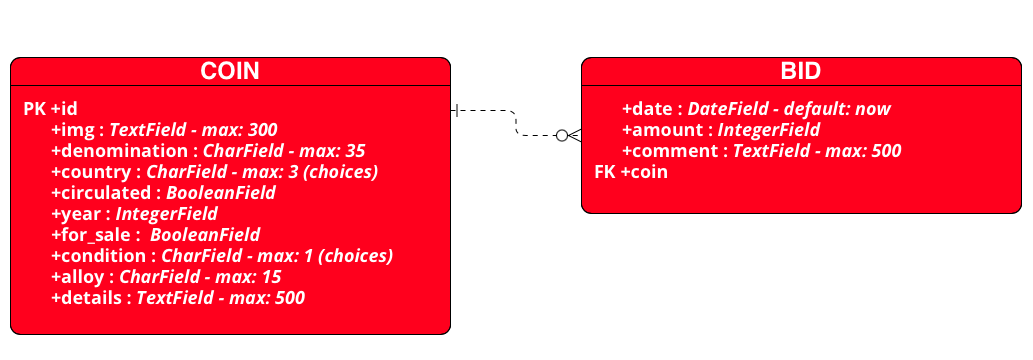
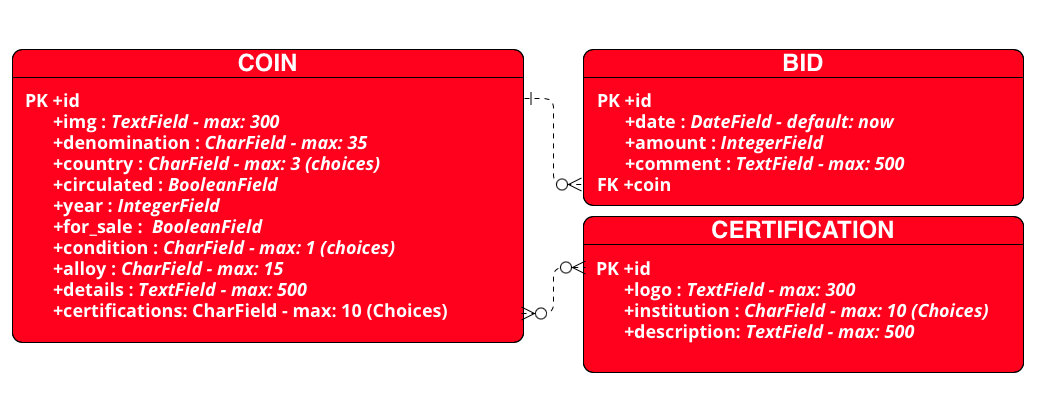
Complete part 5

diff --git a/main_app/templates/extends/details.html b/main_app/templates/extends/details.html
@@ -5,7 +5,12 @@
             <div class="col s6">
                 <div class="card medium">
                     <div class="card-content">
-                            <b>Country:</b> {{ coin.country }}
+                            <b>Country:</b> 
+                            {% if coin.country == "DOM" %}
+                            Dominican Republic
+                            {% else %}
+                            United States
+                            {% endif %}
                             <br/>
                             <br/>
                             <b>Denomination:</b> {{ coin.denomination }}
@@ -21,10 +26,25 @@
                             {% endif %}
                             <br/>
                             <br/>
-                            <b>Condition:</b> {{ coin.condition }} <a href="https://www.mintstategold.com/investor-education/cat/about-coin-grading/post/point-grading-scale/">[ View Chart ]</a>
+                            <b>Condition:</b> 
+                            {% if coin.condition == "M" %}
+                            Mint
+                            {% else %}
+                            Good
+                            {% endif %}
+                            <a href="https://www.mintstategold.com/investor-education/cat/about-coin-grading/post/point-grading-scale/">[ View Chart ]</a>
                             <br/>
                             <br/>
                             <b>Coinage Material (alloy):</b> {{ coin.alloy }}
+                            <br/>
+                            <br/>
+                            <b>Certifications:</b>
+                            <br/>
+                            {% for certification in certifications %} 
+                            <a href="{% url 'certifications' %}">
+                            <img src="../{{ certification.logo }}" style="width:40px;height:30px;">
+                            </a>
+                            {% endfor %}
                     </div>
                     <div class="card-action">
                         <a href="{% url 'coin_update' coin.id %}">Edit</a>
@@ -36,7 +56,7 @@
                 <div class="card medium">
                 <div class="row">
                     <div class="card-content">
-                        <img src="../{{ coin.img }}" class="details-coin-img"/>
+                        <img src="../{{ coin.img }}" class="details-coin-img" style="width: 61vmin; height:37vmin"/>
                     </div>
                 </div>
                 </div>

diff --git a/main_app/templates/extends/certifications.html b/main_app/templates/extends/certifications.html
@@ -1,0 +1,35 @@
+{%extends "../base.html"%}
+
+{% block content %}
+<div class="container">
+    <div class ="row">
+        <div class="col">
+            <h1 class="header">Certifications</h1>
+        </div>
+        <div class="col right">
+            <a href="{% url 'certifications_create' %}">
+                <h4 class="header"><i class="material-icons">post_add</i> Add New</h4>
+            </a>
+        </div>
+    </div>
+    {% for certification in certifications %}
+    <div class="col s12 m7">
+        <div class="card horizontal">
+            <div class="card-image valign-wrapper">
+                <img src="{{ certification.logo }}">
+            </div>
+            <div class="card-stacked">
+                <h2 class="header">{{ certification.institution }}</h2>
+                <div class="card-content">
+                    <p>{{ certification.description }}</p>
+                </div>
+                <div class="card-action">
+                    <a href="{% url 'certification_update' certification.id %}">Edit</a>
+                    <a href="{% url 'certification_delete' certification.id %}">Delete</a>
+                </div>
+            </div>
+        </div>
+    </div>
+    {% endfor %}
+</div>
+{% endblock %}

diff --git a/main_app/templates/main_app/certification_form.html b/main_app/templates/main_app/certification_form.html
@@ -3,7 +3,7 @@
 {% block content %}
 
 <div class="container">
-    <h5>Add Coin</h5>
+    <h5>Add Certification</h5>
     <!-- Leaving the action empty makes the form post to the same url used to display it -->
     <form action="" method="POST">
         <!-- Django requires the following for security purposes -->
@@ -26,14 +26,8 @@
 </div>
 
 <script>
-    const countryEl = document.getElementById('id_country');
-    M.FormSelect.init(countryEl);
-
-    const conditionEl = document.getElementById('id_condition');
-    M.FormSelect.init(conditionEl);
-
-    const certificationEl = document.getElementById('id_certifications');
-    M.FormSelect.init(certificationEl);
+    const institutionEl = document.getElementById('id_institution');
+    M.FormSelect.init(institutionEl);
 </script> 
 
 {% endblock %}

diff --git a/main_app/templates/extends/home.html b/main_app/templates/extends/home.html
@@ -11,7 +11,12 @@
                 </div>
                 <div class="card-content">
                     <div class="center-align">
-                    {{ coin.year}} - {{ coin.country }} {{ coin.denomination}}
+                    {% if coin.country == "DOM" %}
+                    Dominican Republic<br/>
+                    {% else %}
+                    United States<br/>
+                    {% endif %}
+                    {{ coin.year}} - {{ coin.denomination}}
                     </div>
                 </div>
             </div>

diff --git a/main_app/templates/base.html b/main_app/templates/base.html
@@ -25,6 +25,7 @@
             <ul class="right hide-on-med-and-down">
                 <li><a href="{% url 'home' %}"><i class="material-icons">home</i></a></li>
                 <li><a href="{% url 'coins_create' %}"><i class="material-icons">add_circle</i></a></li>
+                <li><a href="{% url 'certifications' %}"><i class="material-icons">workspace_premium</i></a></li>
                 <li><a href="{% url 'about' %}"><i class="material-icons">quiz</i></a></li>
             </ul>
         </div>

diff --git a/main_app/templates/main_app/certification_confirm_delete.html b/main_app/templates/main_app/certification_confirm_delete.html
@@ -1,0 +1,13 @@
+{% extends 'base.html' %}
+
+{% block content %}
+<h1>Delete certification</h1>
+
+<h4>Are you sure you want to delete <span class="teal-text">{{ object.institution }}</span>?</h4>
+
+<form action="" method="POST">
+    {% csrf_token %}
+    <input type="submit" value="Yes - Delete!" class="btn">
+    <a href="{% url 'detail' certification.id %}">Cancel</a>
+</form>
+{% endblock %}

diff --git a/main_app/templates/main_app/coin_confirm_delete.html b/main_app/templates/main_app/coin_confirm_delete.html
@@ -8,6 +8,6 @@
 <form action="" method="POST">
     {% csrf_token %}
     <input type="submit" value="Yes - Delete!" class="btn">
-    <a href="{% url 'detail' coin.id %}">Cancel</a>
+    <a href="{% url 'certifications' %}">Cancel</a>
 </form>
 {% endblock %}

diff --git a/main_app/static/css/style.css b/main_app/static/css/style.css
@@ -12,7 +12,7 @@
     text-decoration: none;
     color: black;
     font-size: 4.5vmin;
-    margin-top: 30px;
+    margin-top: 5px;
 }
 
 .details-coin-img {

diff --git a/main_app/views.py b/main_app/views.py
@@ -1,7 +1,7 @@
 from django.shortcuts import render, redirect
 from django.views.generic.edit import CreateView, UpdateView, DeleteView
-from .models import Coin
-from .forms import BiddingForm
+from .models import Coin, Certification
+from .forms import BiddingForm, CertificationForm
 
 def index(request):
     coins = Coin.objects.all()
@@ -18,14 +18,42 @@ def home(request):
     })
 
 def coin_detail(request, coin_id):
-    coin = Coin.objects.get(id=coin_id) 
+    coin = Coin.objects.get(id=coin_id)
+    id_list = coin.certifications.all().values_list('id')[:]
+    certifications = []
+    for id in id_list:
+        certifications.append(Certification.objects.get(id=id[0]))
     bidding_form = BiddingForm()
+    certification_form = CertificationForm()
     return render(request, 'extends/details.html', {
         'title': 'Details',
         'coin': coin,
-        'bidding_form': bidding_form
-        
+        'certifications': certifications,
+        'bidding_form': bidding_form,
+        'certification_form': certification_form   
     })
+
+def certifications(request):
+    certifications = Certification.objects.all()
+    return render(request, 'extends/certifications.html', {
+        'title': "Certifications",
+        'certifications': certifications
+    })
+
+def certification_detail(request, certification_id):
+    certification = Certification.objects.get(id=certification_id), 
+    return render(request, 'extends/certification.html', {
+        'title': 'Certification',
+        'certification': certification
+    })
+
+def add_certification(request, coin_id):
+    form = CertificationForm(request.POST)
+    if form.is_valid():
+        new_certification = form.save(commit=False)
+        new_certification.coin_id = coin_id
+        new_certification.save()
+        return redirect('detail', coin_id=coin_id)
 
 def add_bid(request, coin_id):
  # create a ModelForm instance using the data in request.POST
@@ -56,3 +84,16 @@ class CoinUpdate(UpdateView):
 class CoinDelete(DeleteView):
     model = Coin
     success_url = '/coins'
+
+class CertificationCreate(CreateView):
+    model = Certification
+    fields = '__all__'
+    success_url = '/certifications'
+
+class CertificationUpdate(UpdateView):
+    model = Certification
+    fields = '__all__'
+
+class CertificationDelete(DeleteView):
+    model = Certification
+    success_url = '/certifications'

diff --git a/main_app/models.py b/main_app/models.py
@@ -15,6 +15,26 @@ CONDITION = (
     ('P', 'Poor')
 )
 
+INSTITUTION = (
+    ('PCGS', 'Profesional Coin Granding Service'), 
+    ('NGC', 'Numismatic Guaranty Company'), 
+    ('ANACS', 'American Numismatic Association')
+)
+
+class Certification(models.Model):
+    logo = models.TextField(max_length=300, default='../static/images/default-coin-img.gif')
+    institution = models.CharField(
+        max_length=10,
+        choices=INSTITUTION,
+        default=INSTITUTION[0][0])
+    description = models.TextField(max_length=500)
+
+    def __str__(self):
+        return self.institution
+    
+    def get_absolute_url(self):
+        return reverse('detail', kwargs={'certification_id': self.id})
+
 class Coin(models.Model):
     img = models.TextField(max_length=300, default='../static/images/default-coin-img.gif')
     denomination = models.CharField(max_length=35)
@@ -31,6 +51,7 @@ class Coin(models.Model):
         default=CONDITION[0][0])
     alloy = models.CharField(max_length=15, default='Unknown')
     details = models.TextField(max_length=500)
+    certifications = models.ManyToManyField(Certification)
 
     def __str__(self):
         return self.country
@@ -44,6 +65,7 @@ class Bid(models.Model):
     amount = models.IntegerField()
     comment = models.TextField(max_length=500)
     coin = models.ForeignKey(Coin, on_delete=models.CASCADE)
+
 
     # def __str__(self):
     #     return f"${self.get_amount_display()} on {self.date}"

diff --git a/main_app/urls.py b/main_app/urls.py
@@ -6,8 +6,13 @@ urlpatterns = [
     path('coins/', views.home, name='home'),
     path('coins/<int:coin_id>/', views.coin_detail, name='detail'),
     path('coins/<int:coin_id>/add_bid/', views.add_bid, name='add_bid'),
+    path('coins/<int:coin_id>/add_certification/', views.add_certification, name='add_certification'),
     path('coins/create/', views.CoinCreate.as_view(), name='coins_create'),
     path('coins/<int:pk>/update/', views.CoinUpdate.as_view(), name='coin_update'),
     path('coins/<int:pk>/delete/', views.CoinDelete.as_view(), name='coin_delete'),
     path('about/', views.about, name='about'),
+    path('certifications/', views.certifications, name='certifications'),
+    path('certification/create/', views.CertificationCreate.as_view(), name='certifications_create'),
+    path('certification/<int:pk>/update/', views.CertificationUpdate.as_view(), name='certification_update'),
+    path('certification/<int:pk>/delete/', views.CertificationDelete.as_view(), name='certification_delete'),
 ] 

diff --git a/main_app/migrations/0020_certification.py b/main_app/migrations/0020_certification.py
@@ -1,0 +1,22 @@
+# Generated by Django 4.2.2 on 2023-06-13 21:29
+
+from django.db import migrations, models
+
+
+class Migration(migrations.Migration):
+
+    dependencies = [
+        ('main_app', '0019_alter_bid_date'),
+    ]
+
+    operations = [
+        migrations.CreateModel(
+            name='Certification',
+            fields=[
+                ('id', models.BigAutoField(auto_created=True, primary_key=True, serialize=False, verbose_name='ID')),
+                ('logo', models.TextField(default='../static/images/default-coin-img.gif', max_length=300)),
+                ('institution', models.CharField(choices=[('PCGS', 'Profesional Coin Granding Service'), ('NGC', 'Numismatic Guaranty Company'), ('ANACS', 'American Numismatic Association')], default='PCGS', max_length=10)),
+                ('description', models.TextField(max_length=500)),
+            ],
+        ),
+    ]
